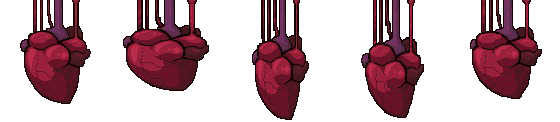
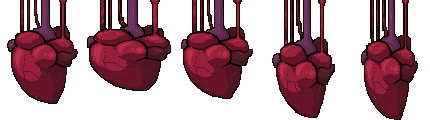
boss finalizado

diff --git a/Boss.cpp b/Boss.cpp
@@ -1,11 +1,12 @@
 #include "Boss.h"
 
 Boss::Boss(float x, float y, Game* game)
-	: Actor("res/enemigos/boss.png", x, y, 296, 420, game) {
+	: Actor("res/enemigos/boss.png", x, y, 213, 486, game) {
 	state = game->stateMoving;
 
-	aMoving = new Animation("res/enemigos/boss.png", width, height, 560, 122, 3, 5, true, game);
+	aMoving = new Animation("res/enemigos/boss.png", width, height, 430, 120, 2, 5, false, game);
 	aHitted = new Animation("res/enemigos/boss_hitted.png", width, height, 112, 128, 3, 1, false, game);
+	aStopped = new Animation("res/enemigos/boss1.png", width, height, 86, 120, 3, 1, false, game);
 	
 	animation = aMoving;
 }
@@ -26,11 +27,21 @@ void Boss::update() {
 		if (state == game->stateHitted) {
 			state = game->stateMoving;
 		}
+
+		if (state == game->stateMoving) {
+			if (animationTime == 0) {
+				aMoving->currentFrame = 0;
+				animation = aMoving;
+				animationTime = animationCd;
+			}
+			else {
+				aStopped->currentFrame = 0;
+				animation = aStopped;
+				animationTime--;
+			}
+		}
 	}
 
-	if (state == game->stateMoving) {
-		animation = aMoving;
-	}
 	if (state == game->stateDying) {
 		animation = aHitted;
 	}
@@ -51,7 +62,7 @@ list<ProjectileEnemigo*> Boss::shoot() {
 	list<ProjectileEnemigo*> projectiles;
 
 	if (shootTime == 0) {
-		cicloDisparos += 12;
+		cicloDisparos += 11;
 
 		shootTime = shootCadence;
 
@@ -64,17 +75,16 @@ list<ProjectileEnemigo*> Boss::shoot() {
 
 		ProjectileEnemigo* projectile1 = new ProjectileEnemigo(x, y, vx * -1, vy * -1, game);
 		ProjectileEnemigo* projectile2 = new ProjectileEnemigo(x, y, vx, vy, game);
-		/*ProjectileEnemigo* projectile = new ProjectileEnemigo(x, y, vx, vy, game);
-		ProjectileEnemigo* projectile = new ProjectileEnemigo(x, y, vx, vy, game);*/
+		ProjectileEnemigo* projectile3 = new ProjectileEnemigo(x, y, vx * -1, vy, game);
+		ProjectileEnemigo* projectile4 = new ProjectileEnemigo(x, y, vx, vy * -1, game);
 
 		projectiles.push_back(projectile1);
 		projectiles.push_back(projectile2);
+		projectiles.push_back(projectile3);
+		projectiles.push_back(projectile4);
 
-		if (cicloDisparos == 360)
-			cicloDisparos = 0;
-
-		if (rand() % 50 == 0)
-			shootTime = rand() % 300;
+		if (rand() % 100 == 0)
+			shootTime = rand() % 100;
 	}
 
 	return projectiles;

diff --git a/GameLayer.cpp b/GameLayer.cpp
@@ -297,7 +297,7 @@ void GameLayer::loadMapObject(char character, float x, float y)
 		break;
 	}
 	case 'J': {
-		boss = new Boss(x, 420, game);
+		boss = new Boss(x, 486, game);
 		gut1 = new Actor("res/enemigos/moms_guts_1.png", x - 170, 140, 381, 138, game);
 		gut2 = new Actor("res/enemigos/moms_guts_2.png", x + 260, 150, 381, 153, game);
 		boss->y = boss->y - boss->height / 2;
